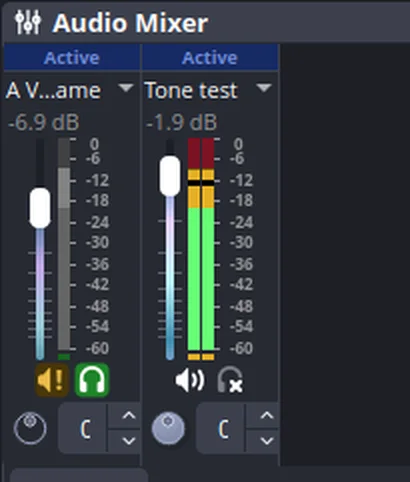
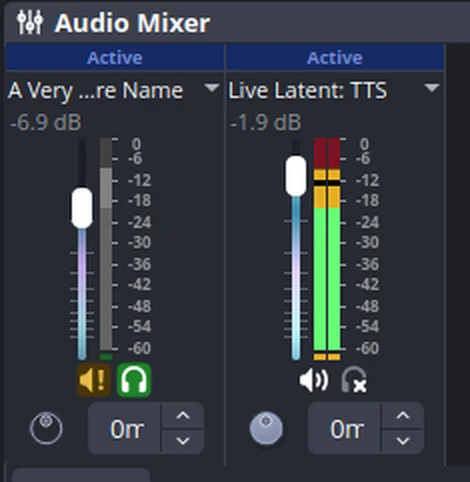
Use native channel width for Audio Mixer source labels

diff --git a/tests/front-audio-controls-test.cpp b/tests/front-audio-controls-test.cpp
@@ -248,7 +248,7 @@ int main(int argc,char **argv){
      return qMakePair(vol,label);
  };
  auto longChannel=makeNativeColumn("An Extremely Long Microphone Source Name That Should Never Stretch Its Channel");
- auto shortChannel=makeNativeColumn("Mic");
+ auto shortChannel=makeNativeColumn("Live Latent: TTS");
  nativeChannels.resize(320,230);
  nativeChannels.show();app.processEvents();
  const auto longOriginalPolicy=longChannel.second->sizePolicy();
@@ -262,9 +262,16 @@ int main(int argc,char **argv){
  app.processEvents();
  REQUIRE(longChannel.second->sizePolicy().horizontalPolicy()==QSizePolicy::Ignored);
  REQUIRE(shortChannel.second->sizePolicy().horizontalPolicy()==QSizePolicy::Ignored);
- REQUIRE(longChannel.second->width()>=60&&shortChannel.second->width()>=60);
  REQUIRE(longChannel.second->minimumWidth()==shortChannel.second->minimumWidth());
- REQUIRE(longChannel.second->minimumWidth()<=84); // compact and independent of name
+ // OBS itself caps these vertical channels at 110 px. Use their available
+ // width, not an arbitrary 68px placeholder that pointlessly elides TTS.
+ REQUIRE(longChannel.second->minimumWidth()==longChannel.first->maximumWidth());
+ REQUIRE(shortChannel.second->minimumWidth()==shortChannel.first->maximumWidth());
+ REQUIRE(longChannel.second->width()>=100&&shortChannel.second->width()>=100);
+ if(shortChannel.second->fontMetrics().horizontalAdvance(shortChannel.second->text())
+       <=shortChannel.first->maximumWidth())
+     REQUIRE(shortChannel.second->fontMetrics().horizontalAdvance(shortChannel.second->text())
+             <=shortChannel.second->contentsRect().width());
  REQUIRE(longChannel.first->sizeHint().width()==shortChannel.first->sizeHint().width());
  const QString longExact=longChannel.second->text();
  longChannel.second->setText(longExact+" [new descriptive suffix]");
@@ -340,7 +347,7 @@ int main(int argc,char **argv){
      []{return QList<augment::AudioPropertyState>{};},{},{});
  REQUIRE(hWidths.attach(&horizontalNative));app.processEvents();
  REQUIRE(horizontalLong.first->sizeHint().width()==horizontalShort.first->sizeHint().width());
- REQUIRE(horizontalLong.second->width()>=60);
+ REQUIRE(horizontalLong.second->width()>=120); // existing meter row offers ample width
  REQUIRE(horizontalLong.second->text().contains("must not expand"));
  horizontalLong.second->setText("Updated very long horizontal source name");
  hWidths.refresh();app.processEvents();

diff --git a/src/front-audio-controls.cpp b/src/front-audio-controls.cpp
@@ -105,14 +105,23 @@ struct FrontAudioControls::State {
             const auto already=std::find_if(namePolicies.cbegin(),namePolicies.cend(),
                 [label](const NamePolicy &entry){return entry.label==label;});
             if(already!=namePolicies.cend())continue;
-            // A source's text belongs to OBS and must not become a geometry
-            // requirement. Keep a compact NAME-INDEPENDENT readable label
-            // width: IgnoreFlag alone makes Qt collapse the QLabel entirely
-            // under OBS's centered vertical channel layout.
-            constexpr int compactLabelWidth=68;
+            // OBS vertical VolControl already has a 110px max width. Use
+            // that native channel budget for its name label rather than
+            // inventing a narrower 68px limit (which needlessly shortens
+            // ordinary source names). Ignored horizontal sizeHint prevents
+            // *name length* from influencing channel width; the minimum
+            // avoids OBS's centered vertical name layout collapsing to 0.
+            // Uncapped horizontal / third-party layouts can still expand to
+            // available width and retain a compact fallback.
+            constexpr int uncappedFallbackWidth=68;
+            int nameWidth=uncappedFallbackWidth;
+            if(volume->maximumWidth()<QWIDGETSIZE_MAX){
+                const auto margins=volume->layout()?volume->layout()->contentsMargins():QMargins{};
+                nameWidth=qMax(1,volume->maximumWidth()-margins.left()-margins.right());
+            }
             const auto original=label->sizePolicy();
             const int previousMinimum=label->minimumWidth();
-            const int minimum=qMax(previousMinimum,compactLabelWidth);
+            const int minimum=qMax(previousMinimum,nameWidth);
             namePolicies.append({label,original,previousMinimum,minimum});
             auto policy=original;
             policy.setHorizontalPolicy(QSizePolicy::Ignored);

diff --git a/ACTIVE_WORK.md b/ACTIVE_WORK.md
@@ -2115,3 +2115,59 @@ Verification:
 Boundary: Native OBS needs restart to load the installed library. No
 GitHub push or release requested. Fully custom third-party mixer widgets
 are outside this size policy adapter.
+
+## Slice 48 — correct needless audio-source label truncation (2026-11-22)
+
+User reported that the previous name-independent mixer sizing pass had
+started shortening names even when the mixer had space. Root cause was
+the fixed 68-pixel fallback assigned to *all* native OBS label widgets.
+Although horizontal sizeHint was ignored correctly, this small minimum
+unnecessarily collapsed the vertical source labels despite the native
+VolControl's 110-pixel maximum channel width.
+
+Implementation:
+- Keep the name-independent QSizePolicy::Ignored horizontal policy, so
+  source text length cannot expand the mixer channel.
+- For native OBS VolControl with an explicit maximum width, use the
+  existing channel width minus its layout margins as the NAME-INDEPENDENT
+  readable label minimum (OBS vertical VolControl max 110). Thus the
+  label can use the space OBS already allows, with no extra channel growth.
+  The small fallback applies only to uncapped third-party/horizontal
+  layouts, which retain expansion to available container space.
+- Complete OBS source text, native tooltip/paint path, meter and gain,
+  pan/sync controls, and the global user-selected ellipsis mode remain
+  unchanged. The exact original label policy/minimum are still restored
+  on detach and emergency recovery.
+- README now clarifies when elision is justified and shows an updated,
+  cropped real OBS screenshot at
+  docs/screenshots/readme/mixer-name-independent-width.webp.
+
+Verification:
+- RED TDD: regression expecting native channel-capacity label width failed
+  on the previous 68px implementation. GREEN test verifies both long and
+  normal label have name-independent width equal to OBS's 110px cap,
+  that the normal Live Latent: TTS label fits when its text measures
+  within that cap, full name survives rename, and original minimum and
+  sizing policy are restored. Horizontal real-style layout test requires
+  substantial readable width (>=120px); prior tests still pass.
+- REAL OBS 32.2.0 side-by-side with two disposable profiles using the
+  same scene sources: Live Latent: TTS and A Very Long Microphone Name
+  For Testing Channel Width Independent Of This Entire Name. Verified
+  each OBS process loaded the specific old/new module from its sandbox
+  XDG path and full source names in OBS logs. Old screenshot shows
+  Live…TTS needlessly shortened; corrected screenshot shows the full
+  Live Latent: TTS, with the very long source still appropriately
+  truncated. Both channels stay equal-width; gain, monitor, pan/sync,
+  and meter controls remain present. No actual user's scenes modified.
+- Clean full CMake build, 24/24 serial CTests passed, no compiler
+  warnings, git diff --check clean.
+- Installed SHA256:
[1 lines of base64/hex data omitted]
+  at ~/.config/obs-studio/plugins/obs-ui-augment/bin/64bit/obs-ui-augment.so,
+  verified bytewise. Previous binary backed up at
+  ~/.local/share/aftermarket/rollback/obs-ui-augment.pre-name-label-width-fix.5eb75d76004c.so.
+  User OBS PID 294527 remains running and was not restarted; the
+  four monitored real user config files had unchanged hashes.
+
+Boundary: a real OBS restart is required to load the installed plugin.
+No GitHub push/release or audio scene/routing change requested.

diff --git a/README.md b/README.md
@@ -240,9 +240,9 @@ widgets, menus and source list selection remain owned by OBS and its theme.**
 
 Enable **AudioBus alternate routing view** in **OBS Settings → Aftermarket → Mixer**. The native Audio Mixer and AudioHub remain **two alternate views inside the same dock**, not two vertically stacked panels. Only the **interactive AudioBus switch** has moved to a small bottom-edge control: click **AudioBus** to open the routing view, then **Audio Mixer** to return. The original OBS audio controls are preserved, and emergency recovery **Ctrl+Alt+Shift+F12** restores the native mixer without changing scene or audio routing.
 
-**Audio channel sizing:** Long OBS source names no longer enlarge mixer channels. Both vertical mixer columns and horizontal mixer rows size from their controls and available layout space, with a compact name-label allowance independent of the label text. A long name is truncated within its channel rather than expanding that channel; OBS keeps the complete source name. The original native label size policies and minimum widths are restored on detach/emergency recovery.
+**Audio channel sizing:** OBS audio channels size from their controls and available layout space, **not from the length of their names**. Vertical channels use OBS's own width allowance (up to its native 110-pixel limit), rather than artificially restricting every label to 68 pixels. Names such as Live Latent: TTS stay fully visible when they fit; genuinely long names truncate only at the actual channel boundary. Horizontal mixer rows also retain their available label space. The complete OBS source name and native mixer controls are unchanged, and the original label sizing policies and minimum widths are restored on detach/emergency recovery.
 
-![Native Audio Mixer with long and short source names at matching compact channel widths](docs/screenshots/readme/mixer-name-independent-width.webp)
+![Native Audio Mixer: Live Latent TTS shown in full, very long name truncated, both channels equally wide](docs/screenshots/readme/mixer-name-independent-width.webp)
 
 **AudioHub (alternate routing view)** is a compact source-to-output patchbay:
 
